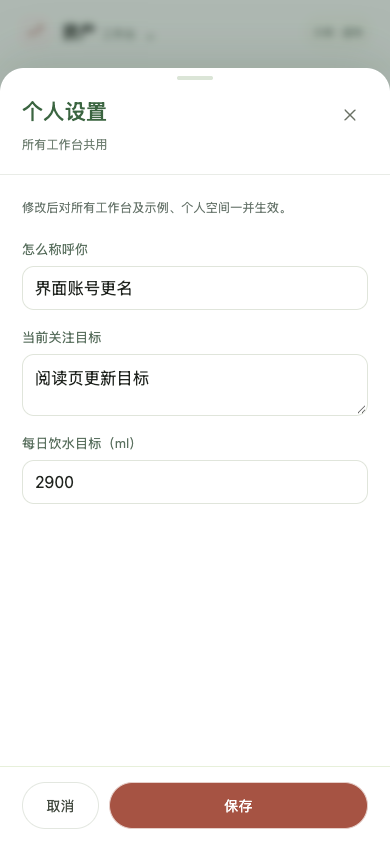
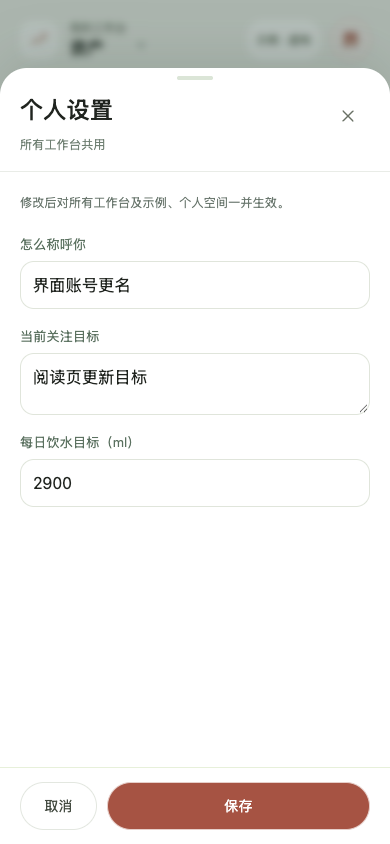
test: verify global personal and workbench settings entry points

diff --git a/docs/PERSONAL_SETTINGS_ACCEPTANCE.md b/docs/PERSONAL_SETTINGS_ACCEPTANCE.md
@@ -2,27 +2,27 @@
 
 - 执行者：测试验收工程师 Agent `/root/settings_qa`，独立于实现作者。
 - 日期：2026-11-04（Asia/Shanghai）。
-- 需求：昵称、关注目标、每日饮水目标由当前账号统一保存，所有工作台和示例/个人空间共用；不同账号隔离，工作台主题保持独立。
-- 验收对象：`/tmp/awesome-workbench-shared-settings`，基于 `3a597ac30f41496a152d4c57ceb5fb6acfca1515` 的本次未提交变更；未包含原工作区其他未提交产品改动。
-- 最终浏览器产物：`/assets/app.062690a1a0e1524d2bf698c94b164607520f89b8bf640c297cc5a67ce6778449.js`。
+- 需求：昵称、关注目标、每日饮水目标由当前账号统一保存，所有工作台和示例/个人空间共用；顶部个人入口在所有台提供相同的个人设置、账号安全和安装入口；分台设置位于各自工作台面板下。不同账号隔离，工作台主题保持独立。
+- 验收对象：`/tmp/awesome-workbench-shared-settings`，最终合并版本 `0f12f7f25fed9f2e62de1d2da0ccf0661d65501d`（已合并远端手机 Studio、AI 布局与组件库变更），在该版本上更新验收脚本。
+- 最终浏览器产物：`/assets/app.d81c3dc174687c8ec1770e65a10409578e7adabff66c34a40d6061ab5d165f42.js`。
[3 lines of base64/hex data omitted]
 
 ## 方法与隔离
 
-执行真实 Node HTTP 服务、SQLite 文件和 headless Chrome（Playwright），移动视口 390×844、360×844。每次运行新建系统临时数据目录并使用动态空闲端口，虚构管理员/成员、旧设置及自定义工作台；关闭进程并删除当次数据库。没有访问用户 3100 服务，没有修改用户真实资料，没有发布或合并。
+执行真实 Node HTTP 服务、SQLite 文件和 headless Chrome（Playwright），桌面视口 1440×1000，以及移动视口 390×844、360×844。每次运行新建系统临时数据目录并使用动态空闲端口，虚构管理员/成员、旧设置及自定义工作台；关闭进程并删除当次数据库。没有访问用户 3100 服务，没有修改用户真实资料，没有发布或合并。
 
 复现命令（在最终工作树运行）：
 
 ```sh
-SHOTS_DIR=docs node tests/personal-settings-acceptance.mjs
+PATH=/opt/homebrew/opt/node@24/bin:$PATH SHOTS_DIR=docs node tests/personal-settings-acceptance.mjs
 ```
 
-脚本默认使用本机 Codex runtime 的 Playwright；可通过 `PLAYWRIGHT_MODULE` 指定其他已安装模块。截图为 `docs/personal-settings-mobile.png`，已打开检查，表单内容、说明、取消和保存按钮可见，无截断与重叠。
+脚本默认使用本机 Codex runtime 的 Playwright；可通过 `PLAYWRIGHT_MODULE` 指定其他已安装模块。截图包括 `docs/personal-settings-mobile.png`、`docs/personal-settings-top-desktop.png`、`docs/workbench-settings-panel-desktop.png`、`docs/personal-top-mobile.png`、`docs/workbench-panel-mobile.png`，已打开检查，表单与桌面/手机分离入口清晰，无截断与重叠。
 
 ## 结果
 
-最终运行：**13 通过，0 失败**。
+最终运行：**16 通过，0 失败**。
 
 | 编号 | 实际验证 | 结果 |
 | --- | --- | --- |
@@ -32,17 +32,22 @@ SHOTS_DIR=docs node tests/personal-settings-acceptance.mjs
 | AC04 | 空白/超长昵称、99/10001/小数饮水量拒绝且整笔不落库；100/10000 边界接受 | 通过 |
 | AC05 | 两账号设置隔离；旧页面持有另一账号 owner 时写入返回409，未串号 | 通过 |
 | AC06 | 重启保留账号统一设置，旧健康个人设置行不改写 | 通过 |
-| AC07 | 真实健康设置表单保存后，切换资产/旅行/阅读/自定义的“我的”均显示新昵称，未显示缓存旧名 | 通过 |
+| AC07 | 真实健康台统一个人设置表单保存后，切换资产/旅行/阅读/自定义的“我的”均显示新昵称，未显示缓存旧名 | 通过 |
 | AC08 | 个人设置更名后无需刷新，账号与安全昵称输入及账号标题立即同名 | 通过 |
 | AC09 | 非健康个人设置修改三项偏好，再从账号与安全改名；跨工作台、跨示例空间、整页刷新后保留 | 通过 |
 | AC10 | 单独修改资产主题色，旅行主题及统一个人设置不受影响 | 通过 |
 | AC11 | 真实浏览器无未捕获JS异常；360/390px个人设置无横向溢出，截图视觉检查通过 | 通过 |
 | AC12 | 无登录本地模式从旧健康个人昵称/目标/饮水量继承，修改后所有内置工作台双空间一致 | 通过 |
 | AC13 | 真实MCP Bearer调用 get_settings / update_settings 与Web统一，get_today饮水进度使用最新统一目标 | 通过 |
+| AC14 | 桌面健康/资产/旅行/阅读/自定义顶部个人入口的菜单及个人设置表单内容完全一致；全局顶部无主题齿轮，个人菜单无分台设置 | 通过 |
+| AC15 | 各台模块面板内工作台设置可达，含该台资料/空间/外观/回收/导出，专属健康连接/旅行备忘/阅读计划入口正确；逐台真实UI保存主题，其他台颜色及个人偏好保持；健康连接页无个人表单 | 通过 |
+| AC16 | 手机五台顶部个人入口菜单一致；工作台首页面板内设置可达，抽屉仅含分台设置；无横向溢出与JS错误 | 通过 |
 
 ## 缺陷与复测
 
 调查时曾提出两个风险：个人设置更名后账号内存昵称可能旧值，以及 MCP 每日概览仍直读旧设置。实现作者在最终交付中分别通过 `account.syncName`、共享 `readSettings` 修正；AC08、AC13 已在实际最终产物复测通过，未留下已知阻断缺陷。
+
+本次补充需求完成后，在最终合并版本重新执行全部16项，未发现新增阻断缺陷。曾遇到实现作者合并期间的临时冲突标记导致服务无法启动，等待合并完成后重新启动正常；不将中间态计为交付缺陷。
 
 最初浏览器脚本误选隐藏桌面设置按钮、工作台重复按钮，以及阅读工作台不存在的底部“我的”按钮，均属验收脚本定位问题。已改为实际可见菜单及阅读顶部设置入口；未改动功能实现或降低断言。
 

diff --git a/docs/PERSONAL_SETTINGS_REVIEW.md b/docs/PERSONAL_SETTINGS_REVIEW.md
@@ -51,3 +51,25 @@
[3 lines of base64/hex data omitted]
+
+
+## 组件库上线后的最终复核（0f12f7f）
+
+最终评审版本更新为 `0f12f7f25fed9f2e62de1d2da0ccf0661d65501d`，对比 `origin/main=a14e3b6fc552fd30eef7d5a5752ec0ec24bf2b56`；本段替代前文旧基准的最终交付结论。实际执行者仍为 `/root/settings_review`。未改实现、未部署。
+
+- 逐项阅读最终 app/shell/account/server/personal-settings/MCP 差异；组件库、布局、阅读模块、手机 studio 样式、deploy 与 backup 源文件没有回退。bootstrap/state 仍包含 layout/componentView，applyState 仍应用二者，组件与布局 action 和预览保护仍保留。
+- 独立源码断言通过：自建工作台 otherOverview 与 a14e3b6 原文一致；全局 mine 只包含个人设置、账号与安全和安装入口；当前工作台设置已移至 shell-workbench-settings 面板；健康 settingsPage 保留设备/连接与数据，不再重复个人设置表单。桌面模块栏、手机首页/书架均存在工作台设置入口，手机头像进入共用 mine。
+- 共享存储与迁移逻辑 SHA256 不变，继续使用 users.name 权威昵称及健康个人 focus/waterGoalMl；保留旧表原文。仅新增个人设置表，没有修改服务用户、端口、数据目录、环境文件、运行时或备份流程。回退旧代码会忽略新增表，新的关注/饮水偏好不会反向写旧 scope；昵称仍保存在 users.name。代码回退与整库恢复需要区分。
+- 重新执行 Node24 实际测试：`/opt/homebrew/opt/node@24/bin/node --test --test-concurrency=1 tests/personal-settings.test.mjs tests/layouts.test.mjs tests/components.test.mjs`，22/22通过（含真实 SQLite 升级/事务/持久化、组件布局 API/MCP 与账号隔离）。默认 node 因本机 Homebrew simdjson 动态库缺失启动失败，改用既有 Node24 后通过；未修改系统安装。
+- `git diff --check origin/main` 通过。未重复全量测试；新界面实际点击与上线结果由验收/部署执行者记录。
+
+结论：当前评审范围无遗留阻断项。文档 PERSONAL_SETTINGS.md 的旧基准与测试/交付状态已提醒协调者在交付时更新。
+
+此轮复核源文件 SHA-256：
+
[6 lines of base64/hex data omitted]

diff --git a/docs/PERSONAL_SETTINGS.md b/docs/PERSONAL_SETTINGS.md
@@ -21,7 +21,7 @@
 
 基于 origin/main a14e3b6（含AI布局、组件库及手机studio）的独立工作树集成，保留远端最新首页与阅读功能，原工作区其他未提交修改未纳入。
 
-全量 npm test：271/271通过；自建工作台首页恢复后追加针对待办与设置6/6通过。独立验收13/13通过，详见 PERSONAL_SETTINGS_ACCEPTANCE.md；独立代码评审见 PERSONAL_SETTINGS_REVIEW.md。构建使用Node24。当前为源码交付，尚未部署线上。
+最终集成全量 npm test：303/303通过；独立代码评审针对性检查22/22通过。独立验收16/16通过，详见 PERSONAL_SETTINGS_ACCEPTANCE.md；独立代码评审见 PERSONAL_SETTINGS_REVIEW.md。构建使用Node24。当前为源码交付，尚未部署线上。
 
 ## 入口分工（用户补充）
 
